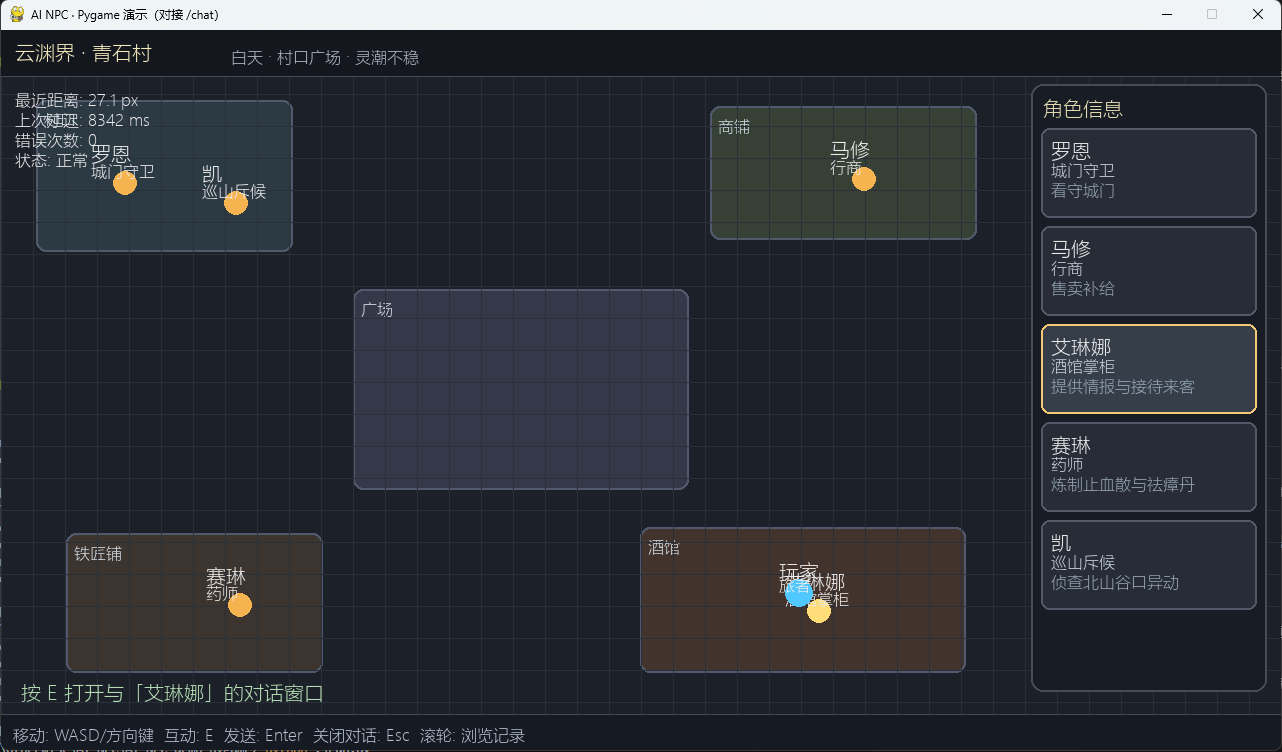
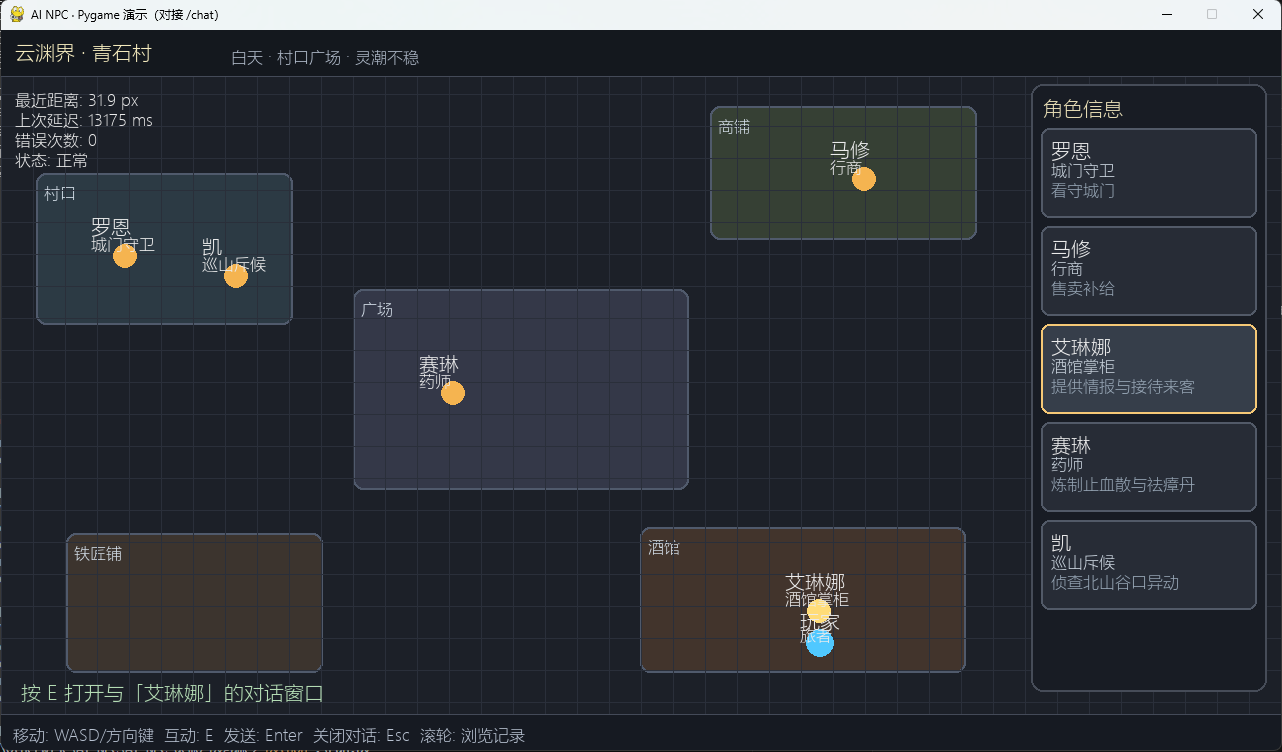
feat：替换展示图片

diff --git a/AI-NPC-demo-pygame/game/layout.py b/AI-NPC-demo-pygame/game/layout.py
@@ -23,7 +23,7 @@ class ZoneLayout:
 
 
 ZONES: tuple[ZoneLayout, ...] = (
-    ZoneLayout("gate", "村口", (44, 58, 68), 0.02, 0.02, 0.26, 0.25),
+    ZoneLayout("gate", "村口", (44, 58, 68), 0.02, 0.14, 0.26, 0.25),
     ZoneLayout("shop", "商铺", (54, 64, 52), 0.70, 0.03, 0.27, 0.22),
     ZoneLayout("square", "广场", (52, 56, 72), 0.34, 0.33, 0.34, 0.33),
     ZoneLayout("tavern", "酒馆", (66, 52, 44), 0.63, 0.72, 0.33, 0.24),
